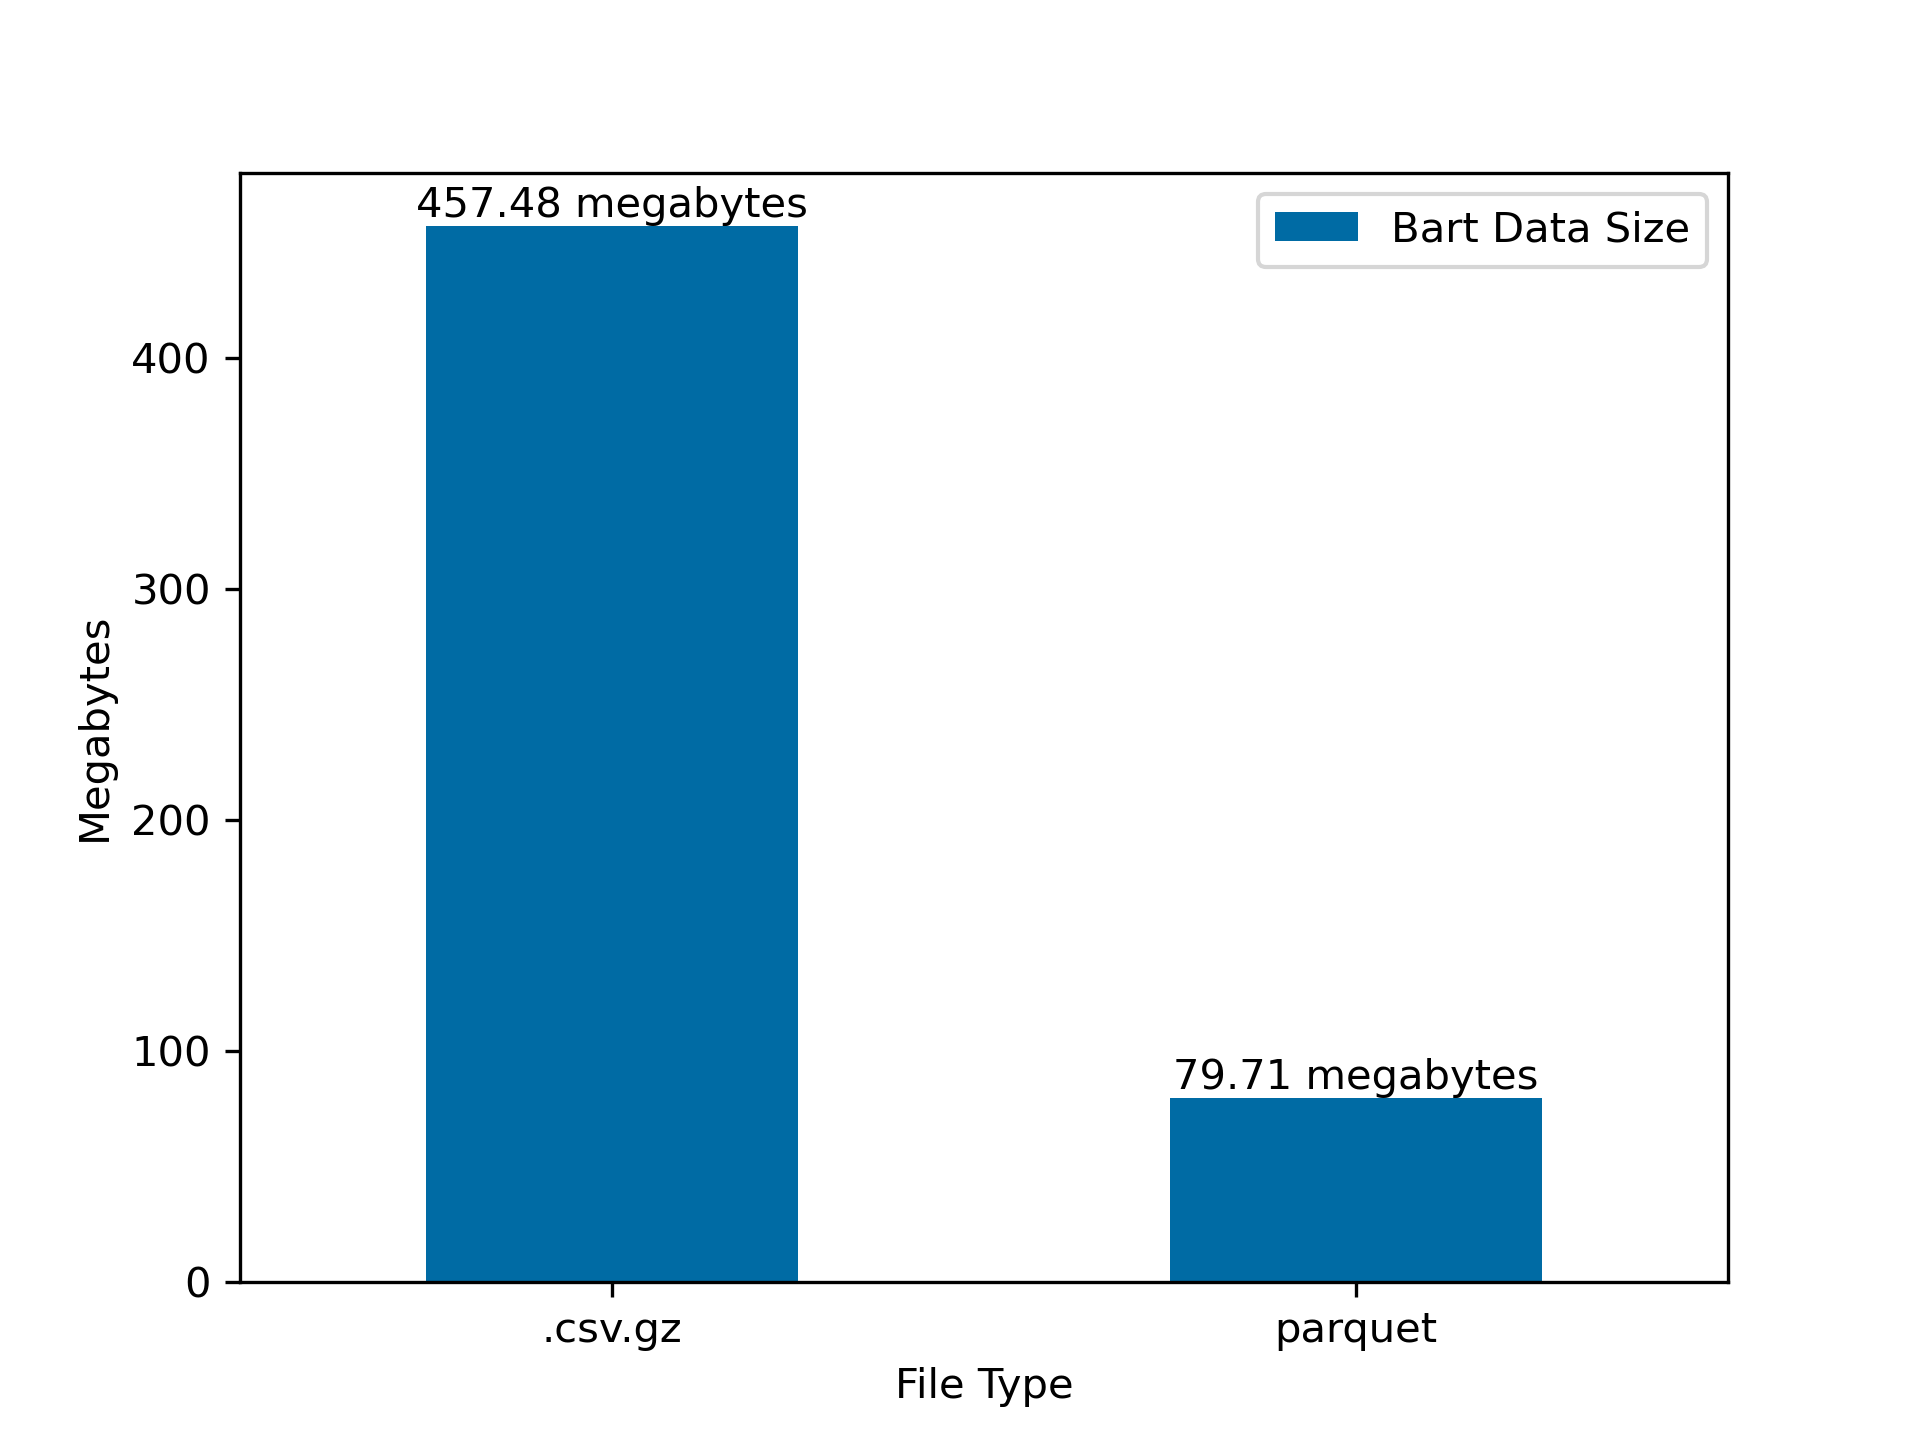
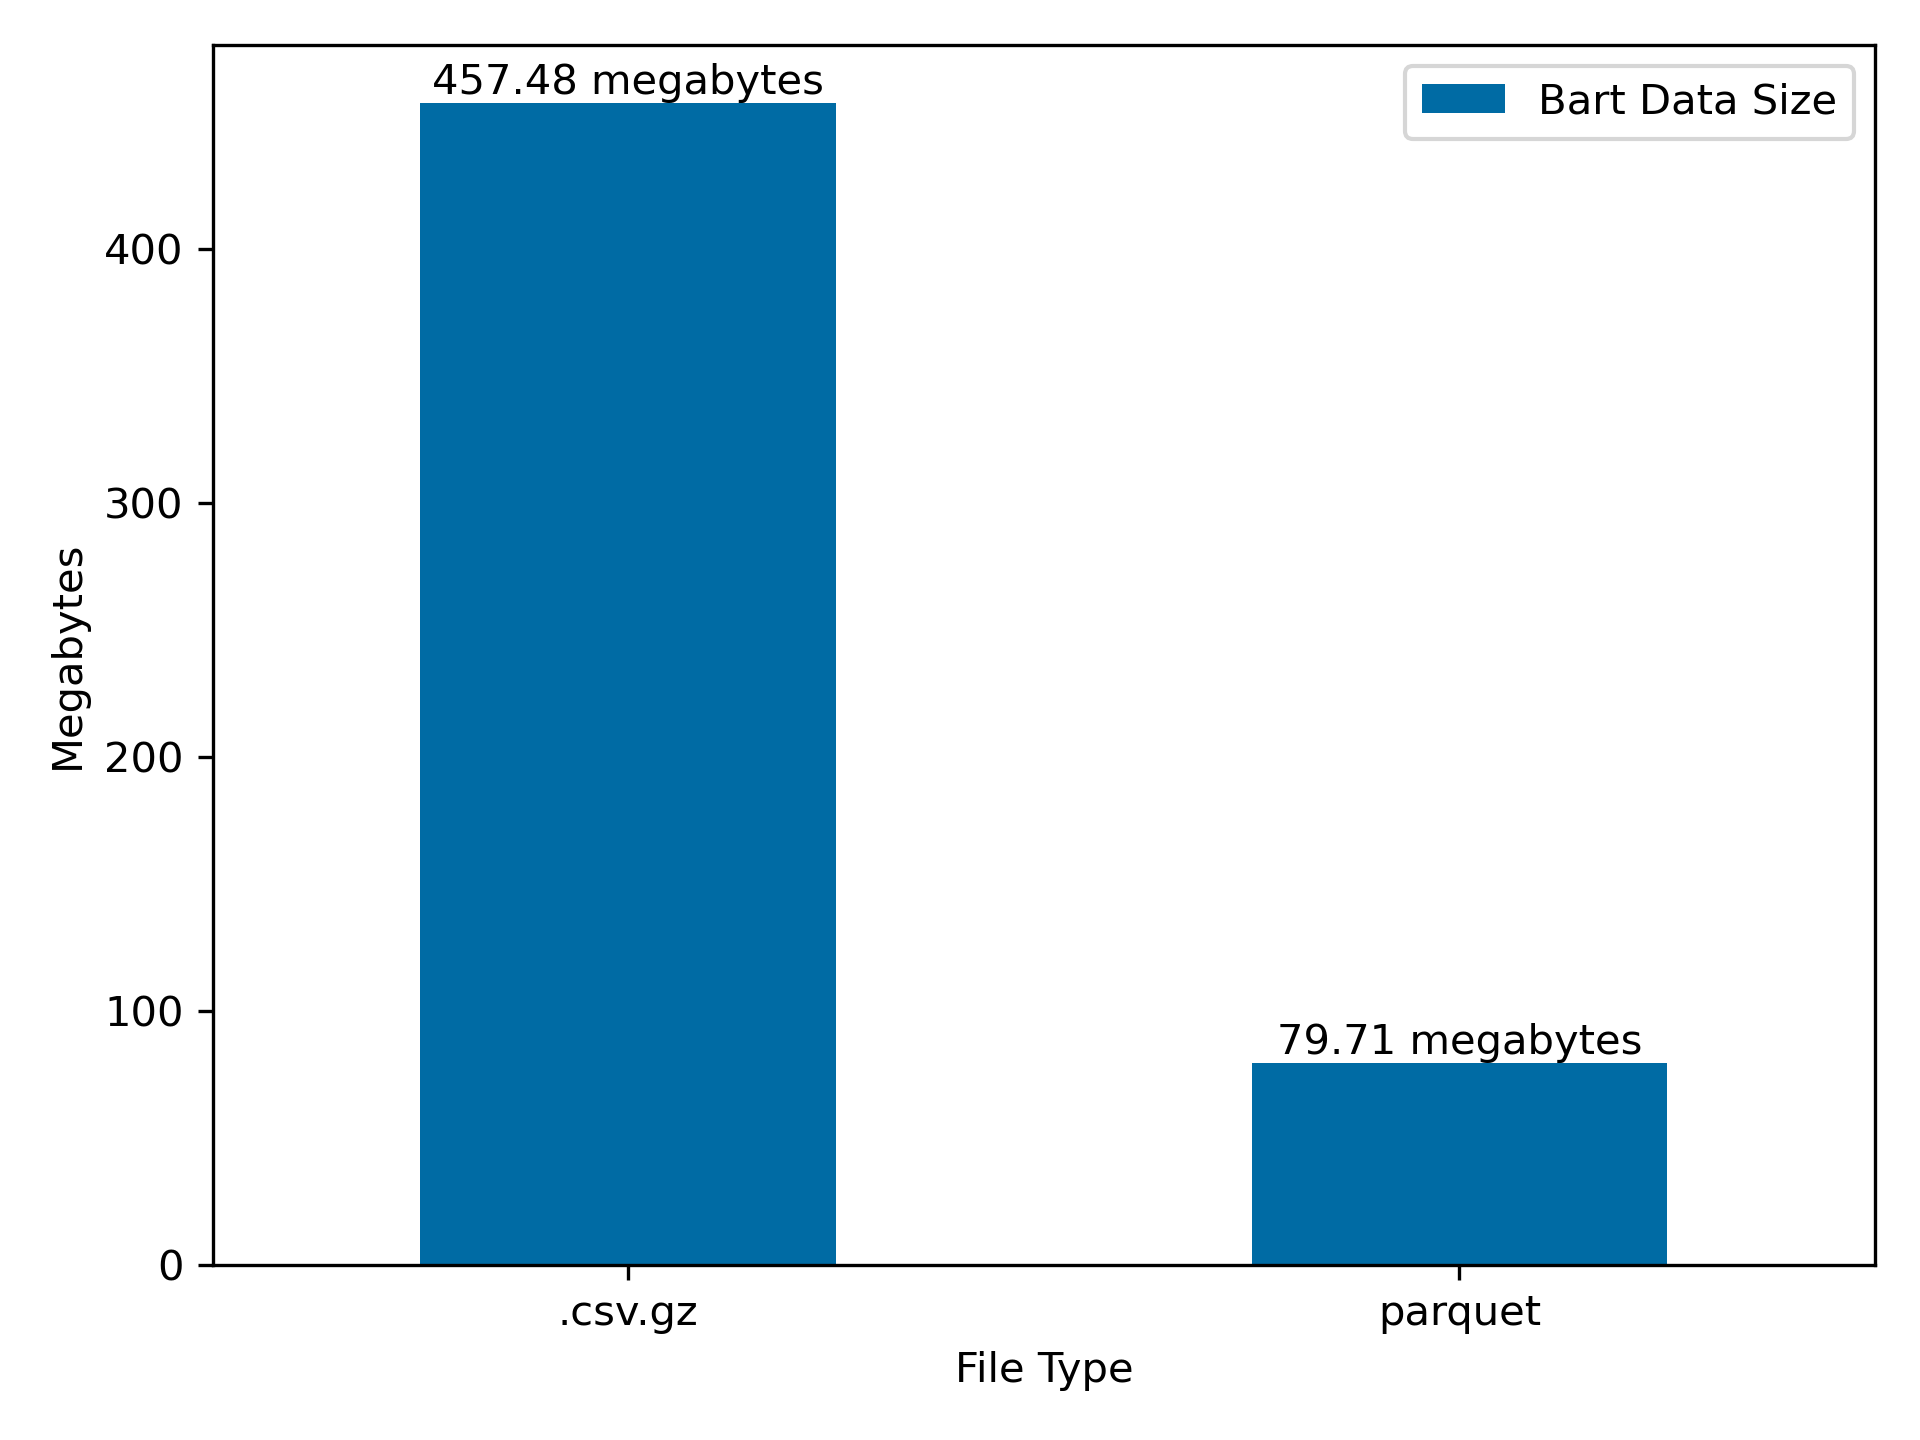
fixed figure

Changed region(s): [[0.0312, 0.0312, 0.9688, 0.9375], [0.4688, 0.9375, 0.5938, 0.9688], [0.0938, 0.0312, 0.125, 0.0625]]

diff --git a/docs/posts/dask-data-io/index.html b/docs/posts/dask-data-io/index.html
@@ -561,7 +561,7 @@ Total size of data: 196.52453 mega-bytes</code></pre>
 <span id="cb22-5"><a href="#cb22-5" aria-hidden="true" tabindex="-1"></a>                         <span class="cf">if</span> os.path.isfile(f)]</span>
 <span id="cb22-6"><a href="#cb22-6" aria-hidden="true" tabindex="-1"></a>    <span class="cf">return</span> <span class="bu">sum</span>(os.path.getsize(f) <span class="cf">for</span> f <span class="kw">in</span> files_not_folders)</span></code><button title="Copy to Clipboard" class="code-copy-button"><i class="bi"></i></button></pre></div>
 </div>
-<div id="cell-fig-1" class="cell" data-execution_count="112">
+<div id="cell-fig-1" class="cell" data-execution_count="123">
 <details class="code-fold">
 <summary>Code</summary>
 <div class="sourceCode cell-code" id="cb23"><pre class="sourceCode python code-with-copy"><code class="sourceCode python"><span id="cb23-1"><a href="#cb23-1" aria-hidden="true" tabindex="-1"></a>fig, ax <span class="op">=</span> plt.subplots()</span>
@@ -574,7 +574,8 @@ Total size of data: 196.52453 mega-bytes</code></pre>
 <span id="cb23-8"><a href="#cb23-8" aria-hidden="true" tabindex="-1"></a>ax.bar_label(ax.containers[<span class="dv">0</span>], fmt<span class="op">=</span><span class="st">"</span><span class="sc">%g</span><span class="st"> megabytes"</span>)</span>
 <span id="cb23-9"><a href="#cb23-9" aria-hidden="true" tabindex="-1"></a>ax.<span class="bu">set</span>(ylabel<span class="op">=</span><span class="st">'Megabytes'</span>, xlabel<span class="op">=</span><span class="st">'File Type'</span>)</span>
 <span id="cb23-10"><a href="#cb23-10" aria-hidden="true" tabindex="-1"></a>ax.tick_params(axis<span class="op">=</span><span class="st">'x'</span>, rotation<span class="op">=</span><span class="dv">0</span>)</span>
-<span id="cb23-11"><a href="#cb23-11" aria-hidden="true" tabindex="-1"></a>fig.savefig(<span class="st">'fig1.png'</span>, dpi<span class="op">=</span><span class="dv">300</span>)</span></code><button title="Copy to Clipboard" class="code-copy-button"><i class="bi"></i></button></pre></div>
+<span id="cb23-11"><a href="#cb23-11" aria-hidden="true" tabindex="-1"></a>fig.tight_layout()</span>
+<span id="cb23-12"><a href="#cb23-12" aria-hidden="true" tabindex="-1"></a>fig.savefig(<span class="st">'fig1.png'</span>, dpi<span class="op">=</span><span class="dv">300</span>)</span></code><button title="Copy to Clipboard" class="code-copy-button"><i class="bi"></i></button></pre></div>
 </details>
 <div class="cell-output cell-output-display">
 <div id="fig-1" class="quarto-figure quarto-figure-center quarto-float anchored">

diff --git a/docs/blog.html b/docs/blog.html
@@ -244,7 +244,7 @@ Time
 <span class="listing-reading-time">14 min</span>
 </td>
 </tr>
-<tr data-index="1" data-categories="Python,Data Management" data-listing-date-sort="1712905200000" data-listing-file-modified-sort="1715701732863" data-listing-date-modified-sort="NaN" data-listing-reading-time-sort="6" data-listing-word-count-sort="1175" data-listing-title-sort="Scraping with `bs4`, parquet, and `dask`" data-listing-filename-sort="index.ipynb">
+<tr data-index="1" data-categories="Python,Data Management" data-listing-date-sort="1712905200000" data-listing-file-modified-sort="1715701983709" data-listing-date-modified-sort="NaN" data-listing-reading-time-sort="6" data-listing-word-count-sort="1175" data-listing-title-sort="Scraping with `bs4`, parquet, and `dask`" data-listing-filename-sort="index.ipynb">
 <td>
 <span class="listing-date">Apr 12, 2024</span>
 </td>
